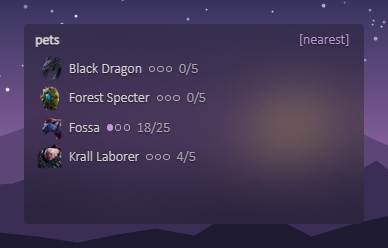
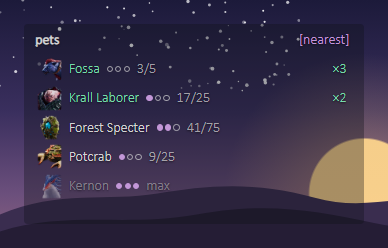
Update the README screenshots to v0.28.1
Retake the overlay, launcher, settings, history, pets, map and analysis
screenshots with the current app, and add the collection, black market and
boss casts windows. Every other player's name is made up.

diff --git a/README.md b/README.md
@@ -35,18 +35,24 @@ It never reads or writes the game's memory, needs no admin rights, and never goe
 
 | Launcher | Settings |
 | --- | --- |
-| ![The launcher: status, the overlay, the fight going on and the history](docs/screenshots/launcher.png) | ![Settings: appearance, the overlay's widgets, status, meter, keybinds and tools](docs/screenshots/settings.png) |
+| ![The launcher: status, the overlay, the fight going on and the history](docs/screenshots/launcher.png) | ![Settings: the theme and its parts, text, glass and class colours](docs/screenshots/settings.png) |
 
 | Fight history | Pet tracker |
 | --- | --- |
-| ![Dungeon runs with stage splits and personal bests](docs/screenshots/history.png) | ![The pets you track, with their level and souls](docs/screenshots/pets.png) |
+| ![A raid night grouped into one run, with each attempt and where it wiped](docs/screenshots/history.png) | ![The pets you track, with their level and souls](docs/screenshots/pets.png) |
 
 ![The map: Altgard with its zones, and where each pet's mobs spawn](docs/screenshots/petmap.png)
 
 ![Fight analysis: each player's DPS over the fight and their numbers](docs/screenshots/analysis-overview.png)
 
-<sub>A real dungeon run replayed from a recording over a painted backdrop. Other players'
-names are made up.</sub>
+| Collection | Black market |
+| --- | --- |
+| ![The collection: your greatswords, with the looks each skin shares](docs/screenshots/collection.png) | ![The black market: this hour's offers, with the skins and wings you're missing marked](docs/screenshots/blackmarket.png) |
+
+![Boss casts: Eternal Ludra's casts, a few renamed and set to warn or not](docs/screenshots/bosscasts.png)
+
+<sub>Fights from a real raid night over a painted backdrop. Other players' names are made
+up.</sub>
 
 ## Install
 
